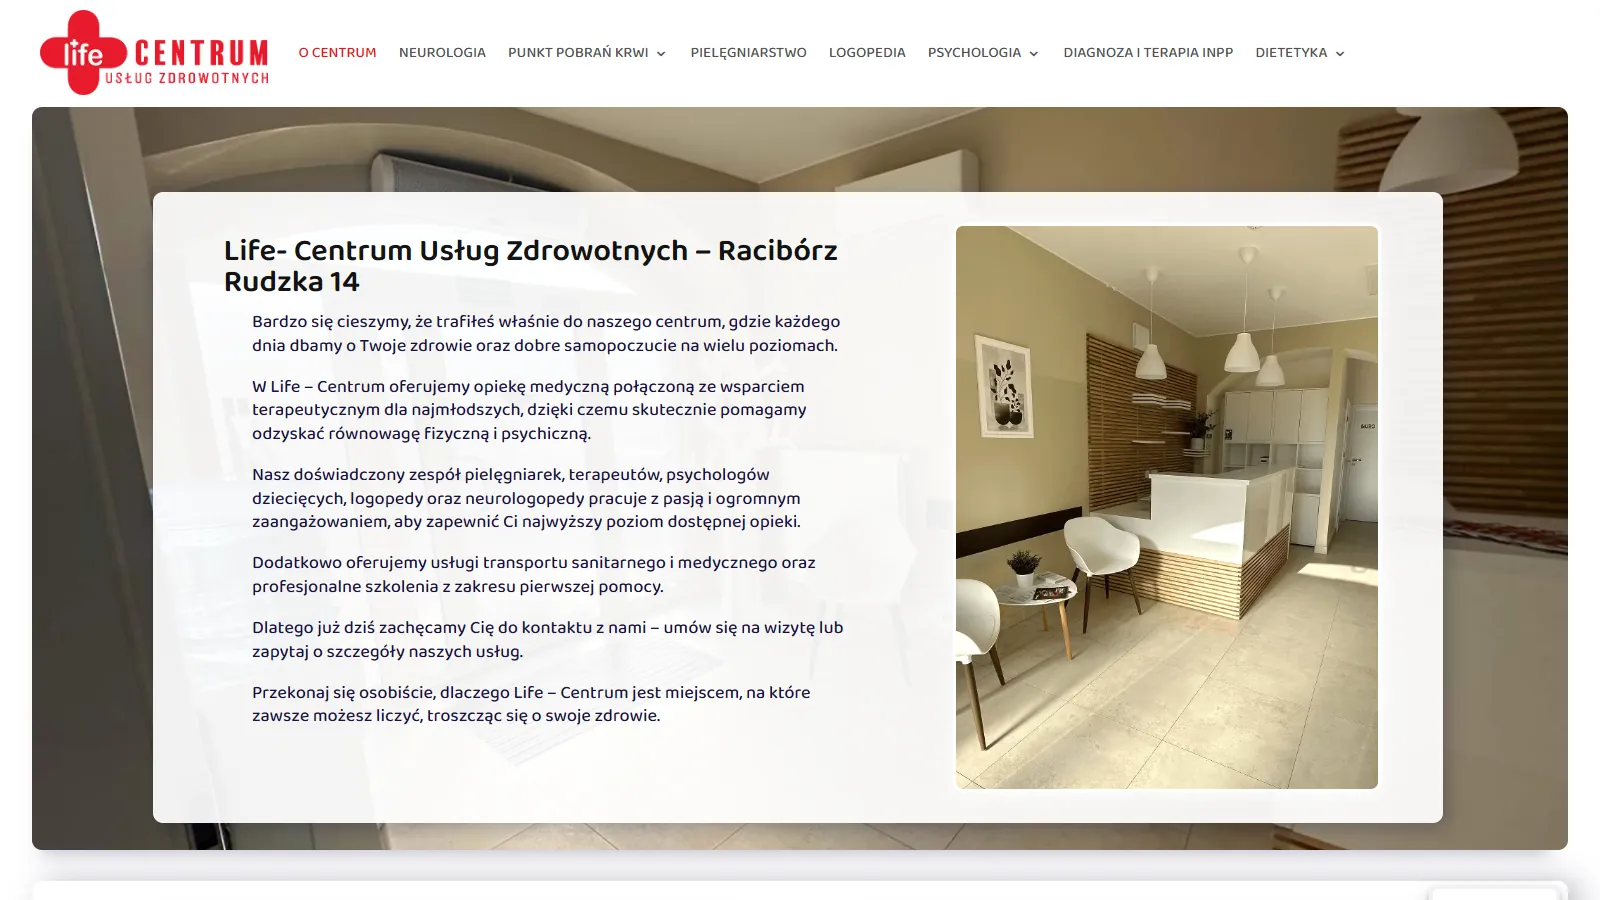
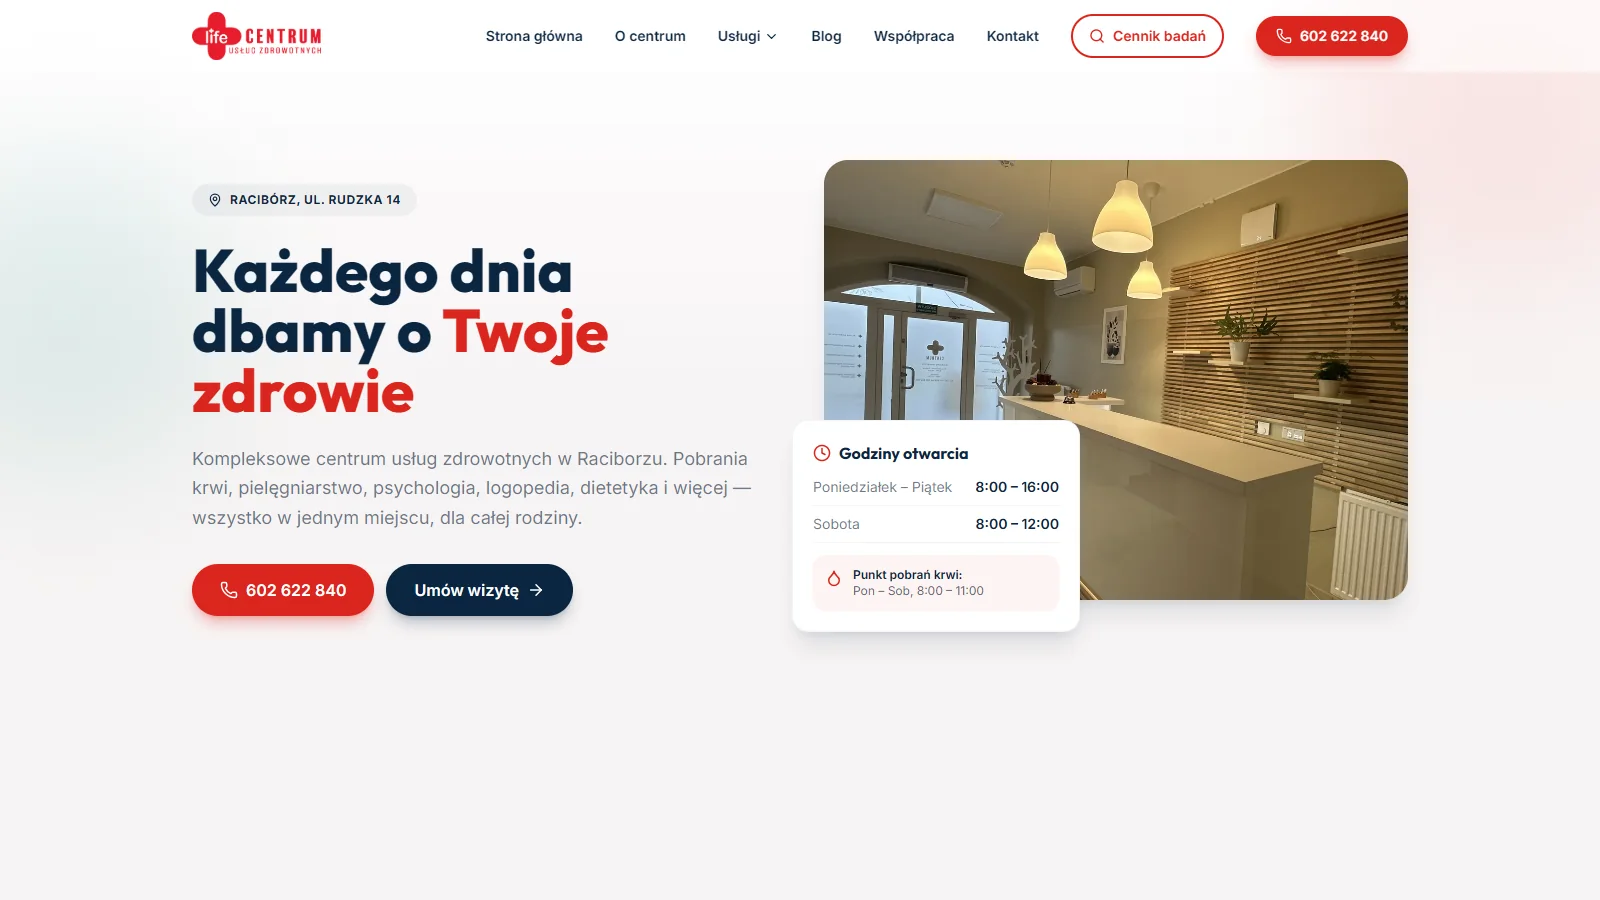
Life-Centrum jako projekt w realizacji, nie gotowa realizacja
Pod life-centrum.pl stoi WordPress 6.9.7 klienta. Nasza wersja jest
zbudowana lokalnie, ale niewdrozona. Portfolio pokazywalo tymczasem
przycisk „Zobacz strone na zywo" prowadzacy na te obca strone, zrzut
ekranu tej strony i ZMIERZONE na niej wyniki Lighthouse — jakby to byla
nasza praca. Obok, na tej samej witrynie, oferta mowi „strony pisane
od zera, bez kilkunastu wtyczek".

Decyzja wlasciciela: zostawiamy w portfolio, ale opisujemy uczciwie.

  - flaga `wRealizacji` w generatorze; przycisk „Zobacz strone na zywo"
    zastapiony etykieta „Projekt w realizacji",
  - podpis pod zrzutem mowi wprost: „strona nie jest jeszcze wdrozona",
  - pomiar usuniety z pomiary.py — tak samo jak dla Alaski, ktorej nie
    da sie zmierzyc. Pokazywanie wyniku cudzej strony jako wlasnego to
    nie jest zaokraglenie, tylko nieprawda,
  - zrzut podmieniony na NASZA wersje: zbudowalem projekt lokalnie
    i sfotografowalem go zamiast WordPressa (hero 104 -> 69 KB).

`about.url` w danych strukturalnych zostaje — to adres organizacji
klienta, nie deklaracja autorstwa.

Blad wprowadzilem ja: zmierzylem strone pod adresem z portfolio,
nie sprawdzajac, czy to nasza praca. Kontrola `sprawdz.py` tego nie
zlapie i nie powinna — to jest ocena, nie pomiar.

diff --git a/realizacje/strona-dla-przychodni/index.html b/realizacje/strona-dla-przychodni/index.html
@@ -11,8 +11,8 @@
     <link rel="icon" type="image/png" href="/favicon.png">
     <meta name="theme-color" content="#0a0a0f">
 
-    <link rel="stylesheet" href="/style.css?v=1788208323">
-    <link rel="stylesheet" href="/page-style.css?v=1788208323">
+    <link rel="stylesheet" href="/style.css?v=1788234375">
+    <link rel="stylesheet" href="/page-style.css?v=1788234375">
 
     <!-- Fonts: preconnect + non-blocking load -->
     <link rel="preconnect" href="https://fonts.googleapis.com">
@@ -186,7 +186,7 @@
                     <span class="text-gradient">Life-Centrum</span></h1>
                 <p class="page-hero-lead reveal delay-1">Centrum zdrowia w Raciborzu: lekarze specjaliści, punkt pobrań krwi, usługi pielęgniarskie. Placówka, do której trafia się w konkretnej sprawie i chce się szybko wiedzieć, czy to właściwe miejsce.</p>
                 <div class="page-hero-btns reveal delay-2">
-                    <a href="https://life-centrum.pl" target="_blank" rel="noopener" class="btn btn-primary">Zobacz stronę na żywo</a>
+                    <span class="btn btn-primary" aria-disabled="true" style="opacity:.65;cursor:default">Projekt w realizacji</span>
                     <a href="/kontakt/" class="btn btn-outline">Chcę podobną</a>
                 </div>
             </div>
@@ -198,7 +198,7 @@
                 <figure class="realizacja-zrzut reveal">
                     <img src="/life-centrum-hero.webp" width="1600" height="900" loading="lazy" decoding="async"
                         alt="Strona internetowa Life-Centrum — placówka medyczna · Racibórz">
-                    <figcaption>Life-Centrum — <a href="https://life-centrum.pl" target="_blank" rel="noopener">life-centrum.pl</a></figcaption>
+                    <figcaption>Life-Centrum — projekt w realizacji, strona nie jest jeszcze wdrożona</figcaption>
                 </figure>
             </div>
         </section>
@@ -259,38 +259,6 @@
                     <li>SEO</li>
                     </ul>
                 </div>
-            </div>
-        </section>
-
-        <!-- Pomiary Lighthouse -->
-        <section>
-            <div class="container">
-                <div class="section-header reveal">
-                    <h2 class="text-gradient">Zmierzone, nie deklarowane</h2>
-                    <p>Lighthouse, profil mobilny — pomiar z 31 sierpnia 2026</p>
-                </div>
-                <div class="wyniki reveal">
-                    <div class="wynik" data-poziom="sredni">
-                        <span class="wynik-liczba">69</span>
-                        <span class="wynik-nazwa">Wydajność</span>
-                    </div>
-                    <div class="wynik" data-poziom="dobry">
-                        <span class="wynik-liczba">90</span>
-                        <span class="wynik-nazwa">Dostępność</span>
-                    </div>
-                    <div class="wynik" data-poziom="dobry">
-                        <span class="wynik-liczba">100</span>
-                        <span class="wynik-nazwa">Sprawdzone metody</span>
-                    </div>
-                    <div class="wynik" data-poziom="dobry">
-                        <span class="wynik-liczba">100</span>
-                        <span class="wynik-nazwa">SEO</span>
-                    </div>
-                </div>
-                <p class="wyniki-nota">Skala 0–100, im wyżej tym lepiej. Nie musisz mi wierzyć —
-                    sprawdź sam w <a href="https://pagespeed.web.dev/analysis?url=https%3A%2F%2Flife-centrum.pl%2F" target="_blank" rel="noopener">PageSpeed
-                    Insights</a>. Wynik wydajności waha się między pomiarami i zależy od łącza,
-                    dlatego podaję datę.</p>
             </div>
         </section>
 
@@ -381,8 +349,8 @@
         </button>
     </aside>
 
-    <script src="/script.js?v=1788208323" defer></script>
-    <script src="/consent.js?v=1788208323" defer></script>
+    <script src="/script.js?v=1788234375" defer></script>
+    <script src="/consent.js?v=1788234375" defer></script>
 </body>
 
 </html>

diff --git a/blog/index.html b/blog/index.html
@@ -21,9 +21,9 @@
     <meta property="twitter:title" content="Blog | WebStudio47 — Wiedza o stronach internetowych">
     <meta property="twitter:description" content="Porady, poradniki i wiedza o tworzeniu stron internetowych, SEO i marketingu.">
     <meta property="twitter:image" content="https://webstudio47.pl/og-image.png">
-    <link rel="stylesheet" href="../style.css?v=1788208323">
-    <link rel="stylesheet" href="/page-style.css?v=1788208323">
-    <link rel="stylesheet" href="blog-style.css?v=1788208323">
+    <link rel="stylesheet" href="../style.css?v=1788234375">
+    <link rel="stylesheet" href="/page-style.css?v=1788234375">
+    <link rel="stylesheet" href="blog-style.css?v=1788234375">
     <link rel="preconnect" href="https://fonts.googleapis.com">
     <link rel="preconnect" href="https://fonts.gstatic.com" crossorigin>
     <link href="https://fonts.googleapis.com/css2?family=Inter:wght@300;400;500;600;700&family=Space+Grotesk:wght@400;500;600;700&display=swap" rel="stylesheet">
@@ -315,6 +315,6 @@
         });
     }
     </script>
-    <script src="/consent.js?v=1788208323" defer></script>
+    <script src="/consent.js?v=1788234375" defer></script>
 </body>
 </html>

diff --git a/portfolio.html b/portfolio.html
@@ -9,9 +9,9 @@
     <meta name="robots" content="index, follow">
     <link rel="canonical" href="https://webstudio47.pl/portfolio.html">
     <link rel="icon" type="image/png" href="favicon.png">
-    <link rel="stylesheet" href="style.css?v=1788208323">
-    <link rel="stylesheet" href="/page-style.css?v=1788208323">
-    <link rel="stylesheet" href="/arc.css?v=1788208323">
+    <link rel="stylesheet" href="style.css?v=1788234375">
+    <link rel="stylesheet" href="/page-style.css?v=1788234375">
+    <link rel="stylesheet" href="/arc.css?v=1788234375">
 
     <!-- Fonts: preconnect + non-blocking load -->
     <link rel="preconnect" href="https://fonts.googleapis.com">
@@ -413,8 +413,8 @@
 
 
     <script src="script.js"></script>
-    <script src="/consent.js?v=1788208323" defer></script>
-    <script src="/arc.js?v=1788208323" defer></script>
+    <script src="/consent.js?v=1788234375" defer></script>
+    <script src="/arc.js?v=1788234375" defer></script>
 </body>
 
 </html>

diff --git a/blog/dlaczego-firma-potrzebuje-strony.html b/blog/dlaczego-firma-potrzebuje-strony.html
@@ -47,9 +47,9 @@
 }
     </script>
     <link rel="icon" type="image/png" href="../favicon.png">
-    <link rel="stylesheet" href="../style.css?v=1788208323">
-    <link rel="stylesheet" href="/page-style.css?v=1788208323">
-    <link rel="stylesheet" href="blog-style.css?v=1788208323">
+    <link rel="stylesheet" href="../style.css?v=1788234375">
+    <link rel="stylesheet" href="/page-style.css?v=1788234375">
+    <link rel="stylesheet" href="blog-style.css?v=1788234375">
     <link rel="preconnect" href="https://fonts.googleapis.com">
     <link rel="preconnect" href="https://fonts.gstatic.com" crossorigin>
     <link href="https://fonts.googleapis.com/css2?family=Inter:wght@300;400;500;600;700&family=Space+Grotesk:wght@400;500;600;700&display=swap" rel="stylesheet">
@@ -307,6 +307,6 @@
         });
     }
     </script>
-    <script src="/consent.js?v=1788208323" defer></script>
+    <script src="/consent.js?v=1788234375" defer></script>
 </body>
 </html>

diff --git a/blog/ile-kosztuje-strona-internetowa.html b/blog/ile-kosztuje-strona-internetowa.html
@@ -47,9 +47,9 @@
 }
     </script>
     <link rel="icon" type="image/png" href="../favicon.png">
-    <link rel="stylesheet" href="../style.css?v=1788208323">
-    <link rel="stylesheet" href="/page-style.css?v=1788208323">
-    <link rel="stylesheet" href="blog-style.css?v=1788208323">
+    <link rel="stylesheet" href="../style.css?v=1788234375">
+    <link rel="stylesheet" href="/page-style.css?v=1788234375">
+    <link rel="stylesheet" href="blog-style.css?v=1788234375">
     <link rel="preconnect" href="https://fonts.googleapis.com">
     <link rel="preconnect" href="https://fonts.gstatic.com" crossorigin>
     <link href="https://fonts.googleapis.com/css2?family=Inter:wght@300;400;500;600;700&family=Space+Grotesk:wght@400;500;600;700&display=swap" rel="stylesheet">
@@ -314,6 +314,6 @@
         });
     }
     </script>
-    <script src="/consent.js?v=1788208323" defer></script>
+    <script src="/consent.js?v=1788234375" defer></script>
 </body>
 </html>

diff --git a/blog/jak-pozycjonowac-strone-seo.html b/blog/jak-pozycjonowac-strone-seo.html
@@ -47,9 +47,9 @@
 }
     </script>
     <link rel="icon" type="image/png" href="../favicon.png">
-    <link rel="stylesheet" href="../style.css?v=1788208323">
-    <link rel="stylesheet" href="/page-style.css?v=1788208323">
-    <link rel="stylesheet" href="blog-style.css?v=1788208323">
+    <link rel="stylesheet" href="../style.css?v=1788234375">
+    <link rel="stylesheet" href="/page-style.css?v=1788234375">
+    <link rel="stylesheet" href="blog-style.css?v=1788234375">
     <link rel="preconnect" href="https://fonts.googleapis.com">
     <link rel="preconnect" href="https://fonts.gstatic.com" crossorigin>
     <link href="https://fonts.googleapis.com/css2?family=Inter:wght@300;400;500;600;700&family=Space+Grotesk:wght@400;500;600;700&display=swap" rel="stylesheet">
@@ -313,6 +313,6 @@
         });
     }
     </script>
-    <script src="/consent.js?v=1788208323" defer></script>
+    <script src="/consent.js?v=1788234375" defer></script>
 </body>
 </html>

diff --git a/blog/responsywna-strona-internetowa.html b/blog/responsywna-strona-internetowa.html
@@ -47,9 +47,9 @@
 }
     </script>
     <link rel="icon" type="image/png" href="../favicon.png">
-    <link rel="stylesheet" href="../style.css?v=1788208323">
-    <link rel="stylesheet" href="/page-style.css?v=1788208323">
-    <link rel="stylesheet" href="blog-style.css?v=1788208323">
+    <link rel="stylesheet" href="../style.css?v=1788234375">
+    <link rel="stylesheet" href="/page-style.css?v=1788234375">
+    <link rel="stylesheet" href="blog-style.css?v=1788234375">
     <link rel="preconnect" href="https://fonts.googleapis.com">
     <link rel="preconnect" href="https://fonts.gstatic.com" crossorigin>
     <link href="https://fonts.googleapis.com/css2?family=Inter:wght@300;400;500;600;700&family=Space+Grotesk:wght@400;500;600;700&display=swap" rel="stylesheet">
@@ -310,6 +310,6 @@
         });
     }
     </script>
-    <script src="/consent.js?v=1788208323" defer></script>
+    <script src="/consent.js?v=1788234375" defer></script>
 </body>
 </html>

diff --git a/blog/strona-wizytowkowa-vs-sklep.html b/blog/strona-wizytowkowa-vs-sklep.html
@@ -47,9 +47,9 @@
 }
     </script>
     <link rel="icon" type="image/png" href="../favicon.png">
-    <link rel="stylesheet" href="../style.css?v=1788208323">
-    <link rel="stylesheet" href="/page-style.css?v=1788208323">
-    <link rel="stylesheet" href="blog-style.css?v=1788208323">
+    <link rel="stylesheet" href="../style.css?v=1788234375">
+    <link rel="stylesheet" href="/page-style.css?v=1788234375">
+    <link rel="stylesheet" href="blog-style.css?v=1788234375">
     <link rel="preconnect" href="https://fonts.googleapis.com">
     <link rel="preconnect" href="https://fonts.gstatic.com" crossorigin>
     <link href="https://fonts.googleapis.com/css2?family=Inter:wght@300;400;500;600;700&family=Space+Grotesk:wght@400;500;600;700&display=swap" rel="stylesheet">
@@ -322,6 +322,6 @@
         });
     }
     </script>
-    <script src="/consent.js?v=1788208323" defer></script>
+    <script src="/consent.js?v=1788234375" defer></script>
 </body>
 </html>

diff --git a/blog/wordpress-vs-strona-na-zamowienie.html b/blog/wordpress-vs-strona-na-zamowienie.html
@@ -47,9 +47,9 @@
 }
     </script>
     <link rel="icon" type="image/png" href="../favicon.png">
-    <link rel="stylesheet" href="../style.css?v=1788208323">
-    <link rel="stylesheet" href="/page-style.css?v=1788208323">
-    <link rel="stylesheet" href="blog-style.css?v=1788208323">
+    <link rel="stylesheet" href="../style.css?v=1788234375">
+    <link rel="stylesheet" href="/page-style.css?v=1788234375">
+    <link rel="stylesheet" href="blog-style.css?v=1788234375">
     <link rel="preconnect" href="https://fonts.googleapis.com">
     <link rel="preconnect" href="https://fonts.gstatic.com" crossorigin>
     <link href="https://fonts.googleapis.com/css2?family=Inter:wght@300;400;500;600;700&family=Space+Grotesk:wght@400;500;600;700&display=swap" rel="stylesheet">
@@ -341,6 +341,6 @@
         });
     }
     </script>
-    <script src="/consent.js?v=1788208323" defer></script>
+    <script src="/consent.js?v=1788234375" defer></script>
 </body>
 </html>

diff --git a/kontakt/index.html b/kontakt/index.html
@@ -12,8 +12,8 @@
     <link rel="icon" type="image/png" href="/favicon.png">
     <meta name="theme-color" content="#0a0a0f">
 
-    <link rel="stylesheet" href="/style.css?v=1788208323">
-    <link rel="stylesheet" href="/page-style.css?v=1788208323">
+    <link rel="stylesheet" href="/style.css?v=1788234375">
+    <link rel="stylesheet" href="/page-style.css?v=1788234375">
 
     <!-- Fonts: preconnect + non-blocking load -->
     <link rel="preconnect" href="https://fonts.googleapis.com">
@@ -421,9 +421,9 @@
     </aside>
 
 
-    <script src="/script.js?v=1788208323" defer></script>
-    <script src="/page-script.js?v=1788208323" defer></script>
-    <script src="/consent.js?v=1788208323" defer></script>
+    <script src="/script.js?v=1788234375" defer></script>
+    <script src="/page-script.js?v=1788234375" defer></script>
+    <script src="/consent.js?v=1788234375" defer></script>
 </body>
 
 </html>

diff --git a/index.html b/index.html
@@ -14,8 +14,8 @@
     <link rel="canonical" href="https://webstudio47.pl/">
     <link rel="icon" type="image/png" href="favicon.png">
     <link rel="shortcut icon" type="image/png" href="favicon.png">
-    <link rel="stylesheet" href="style.css?v=1788208323">
-    <link rel="stylesheet" href="page-style.css?v=1788208323">
+    <link rel="stylesheet" href="style.css?v=1788234375">
+    <link rel="stylesheet" href="page-style.css?v=1788234375">
 
     <!-- Fonts: preconnect + non-blocking load -->
     <link rel="preconnect" href="https://fonts.googleapis.com">
@@ -749,8 +749,8 @@
     </aside>
 
 
-    <script src="script.js?v=1788208323" defer></script>
-    <script src="/consent.js?v=1788208323" defer></script>
+    <script src="script.js?v=1788234375" defer></script>
+    <script src="/consent.js?v=1788234375" defer></script>
 </body>
 
 </html>

diff --git a/strony-internetowe-glubczyce/index.html b/strony-internetowe-glubczyce/index.html
@@ -11,8 +11,8 @@
     <link rel="icon" type="image/png" href="/favicon.png">
     <meta name="theme-color" content="#0a0a0f">
 
-    <link rel="stylesheet" href="/style.css?v=1788208323">
-    <link rel="stylesheet" href="/page-style.css?v=1788208323">
+    <link rel="stylesheet" href="/style.css?v=1788234375">
+    <link rel="stylesheet" href="/page-style.css?v=1788234375">
 
     <link rel="preconnect" href="https://fonts.googleapis.com">
     <link rel="preconnect" href="https://fonts.gstatic.com" crossorigin>
@@ -378,8 +378,8 @@
         </button>
     </aside>
 
-    <script src="/script.js?v=1788208323" defer></script>
-    <script src="/consent.js?v=1788208323" defer></script>
+    <script src="/script.js?v=1788234375" defer></script>
+    <script src="/consent.js?v=1788234375" defer></script>
 </body>
 
 </html>
